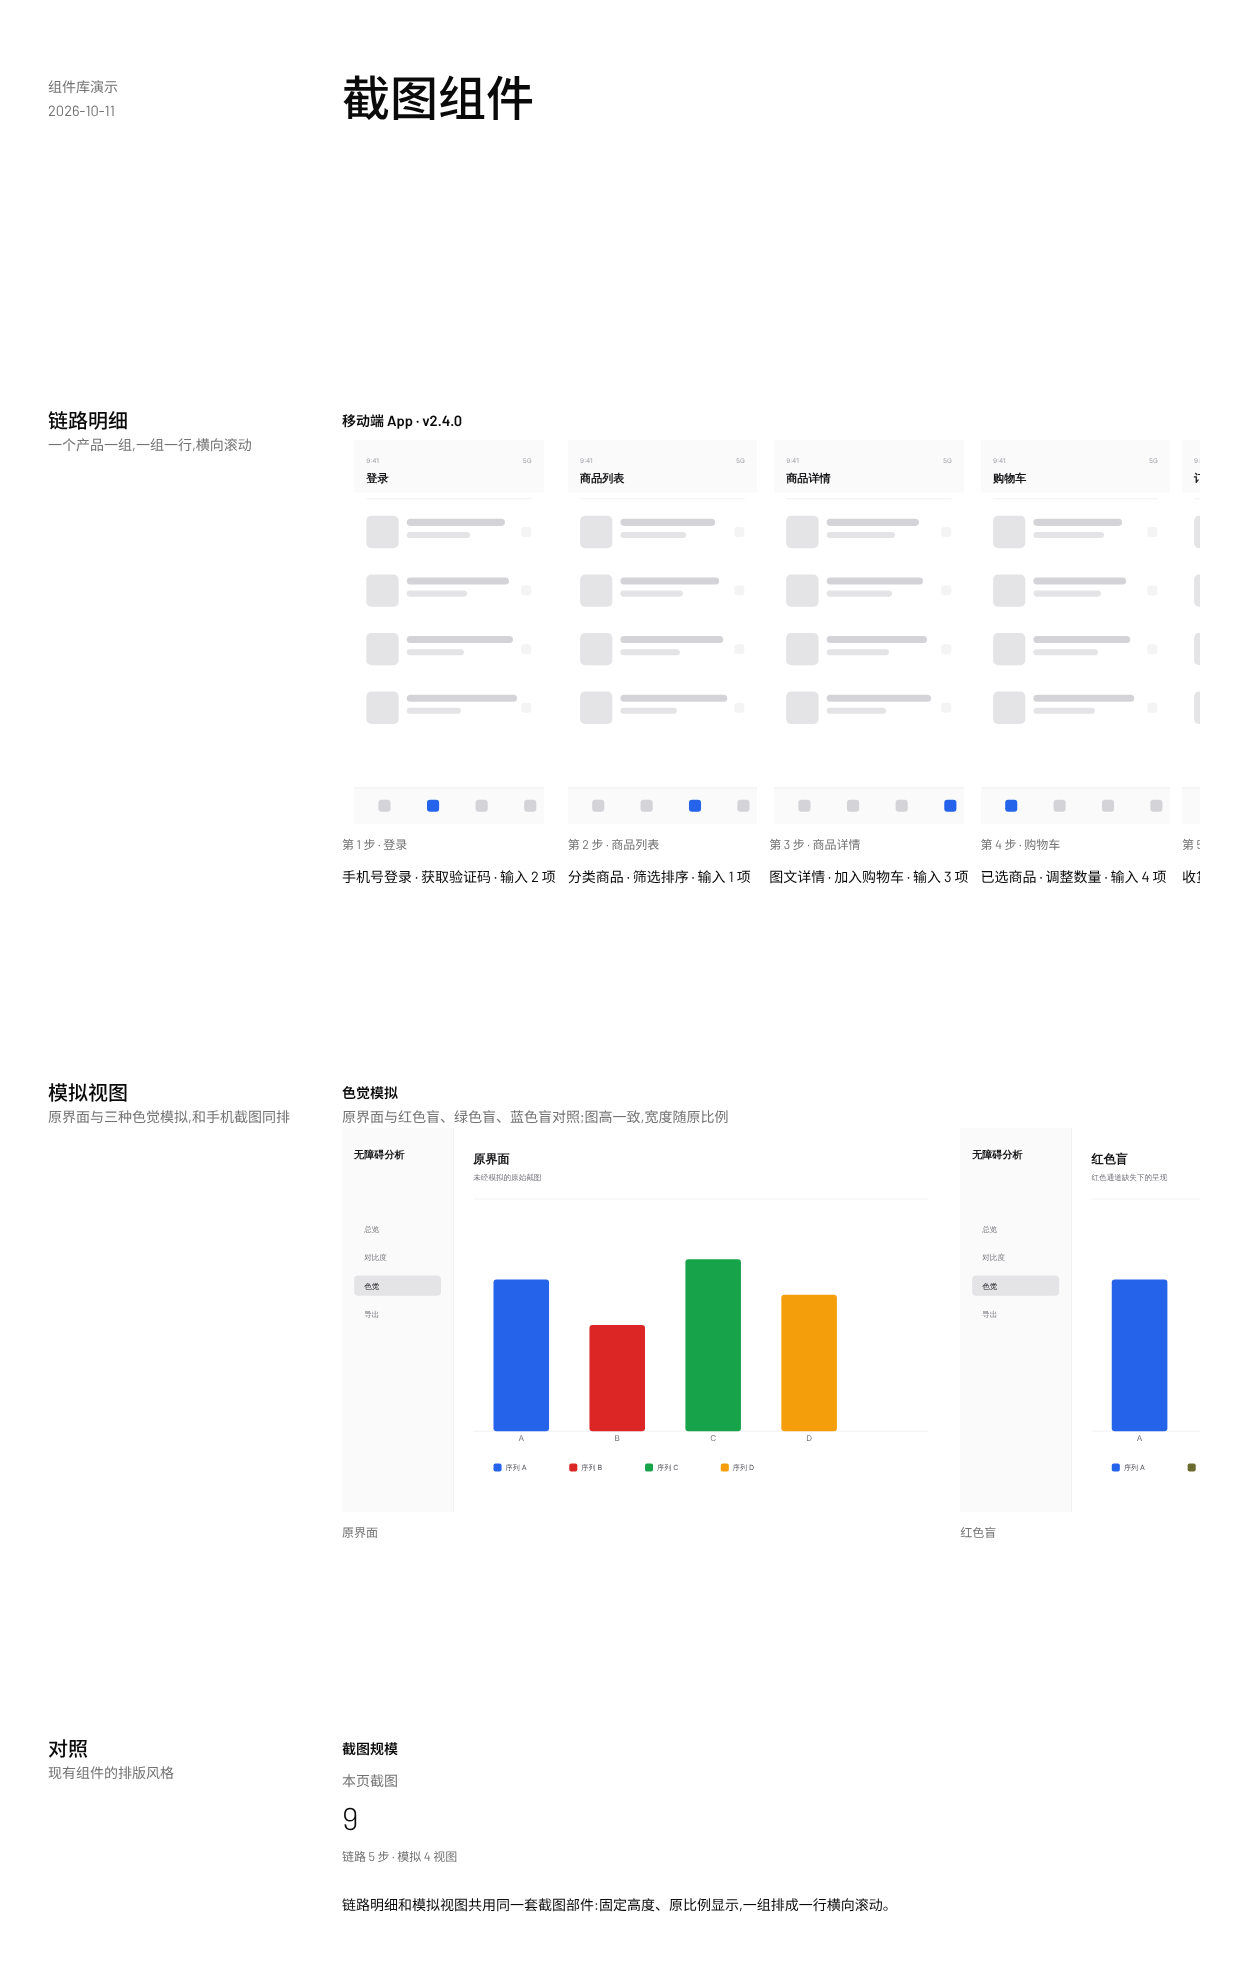
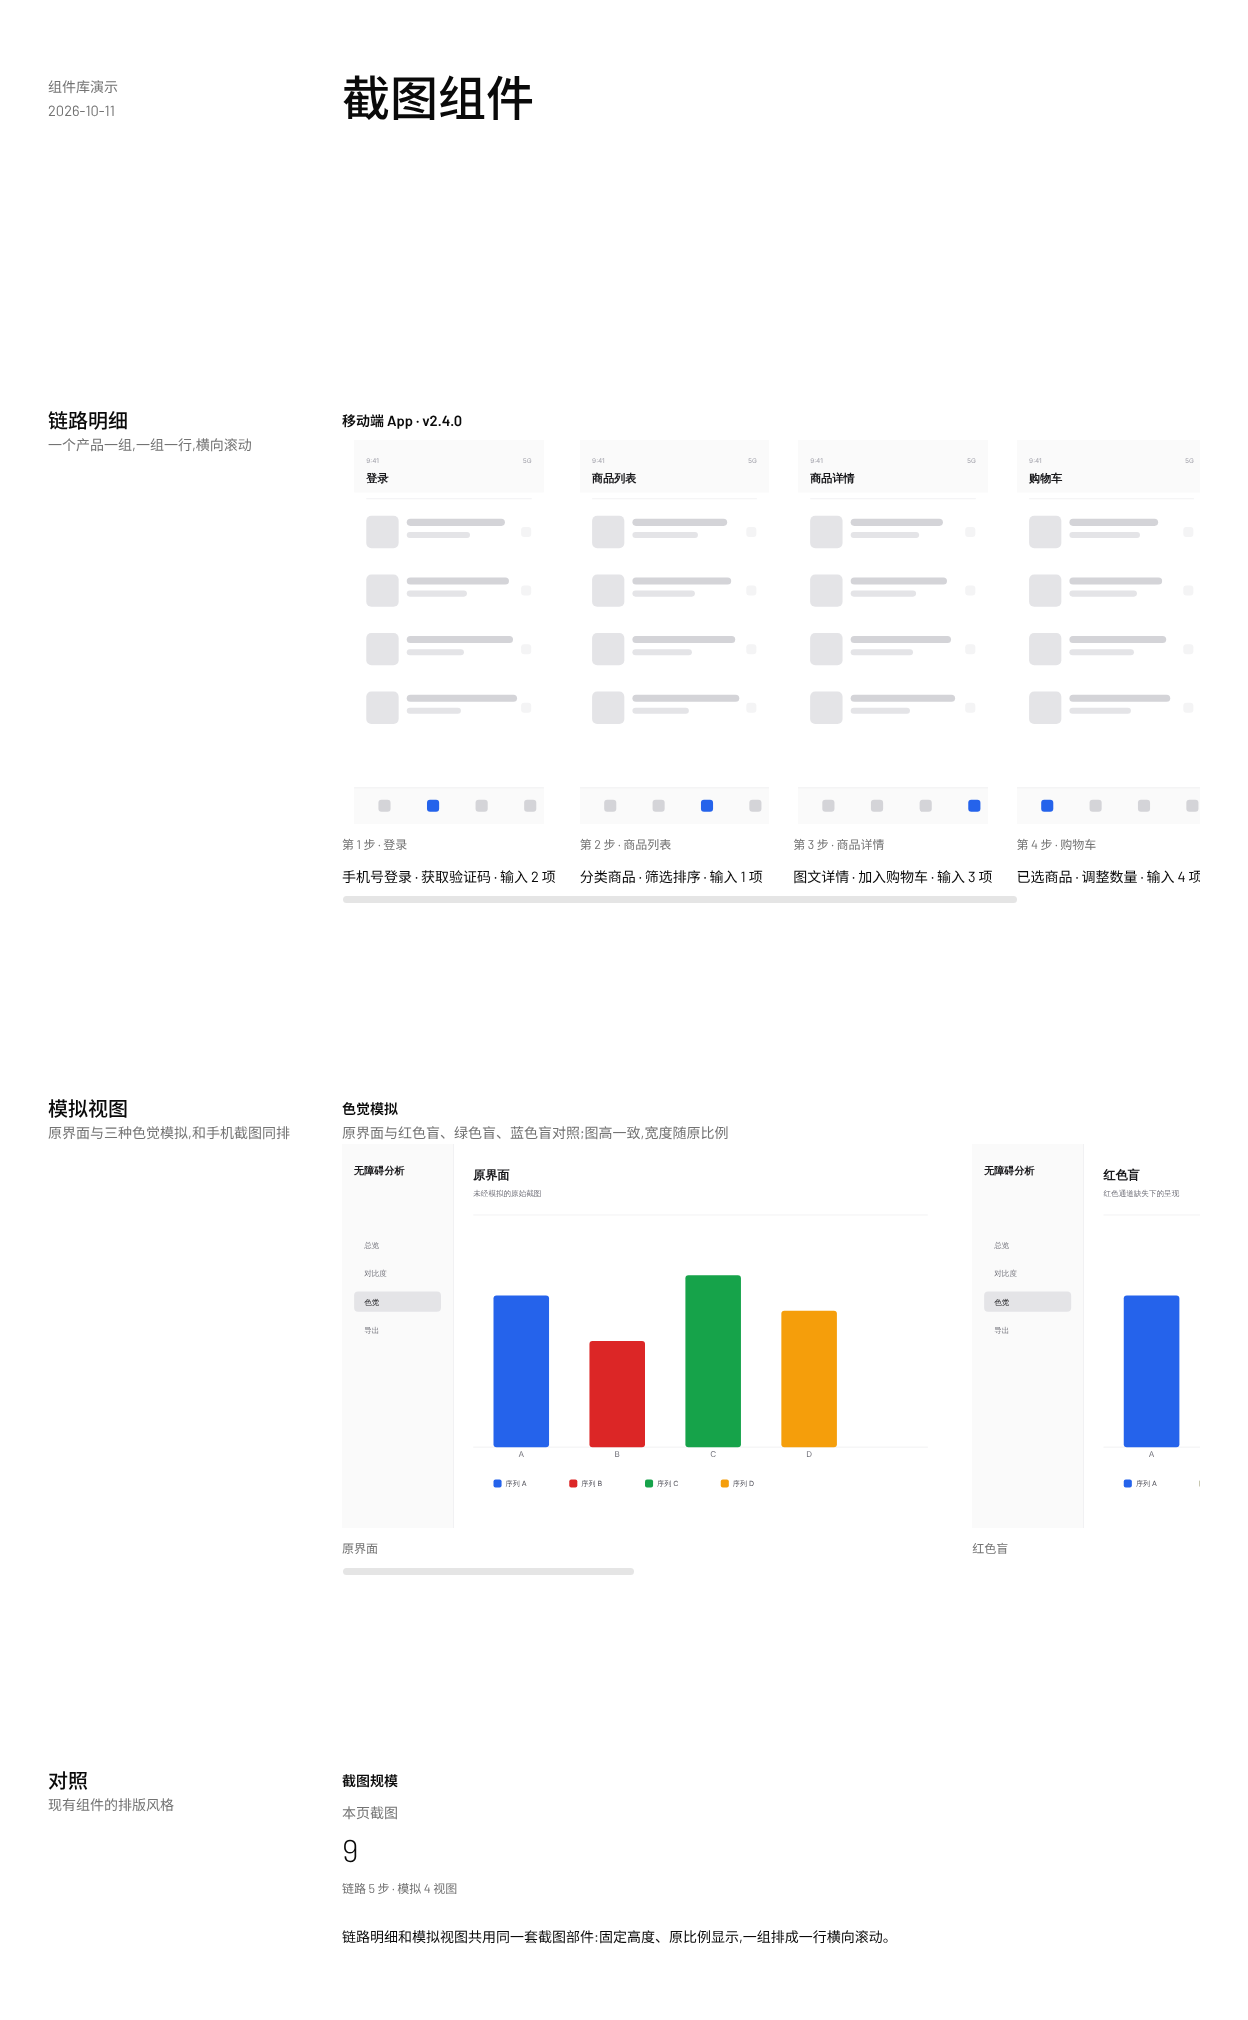
ui-loop: k1 requests use the Maintainer's new wording; round-3 workspace mid-run
Claude-Session: https://claude.ai/code/session_01B6BvnZawy2aUhBeLpK9EKL

diff --git a/experiments/ui-loop/traces/_components/k1/app/src/components/report/index.tsx b/experiments/ui-loop/traces/_components/k1/app/src/components/report/index.tsx
@@ -7,6 +7,7 @@
 import * as React from "react"
 
 import { cn } from "@/lib/utils"
+import { ScrollArea, ScrollBar } from "@/components/ui/scroll-area"
 import { Node, type SpecNode } from "./render"
 
 const SPAN = ["", "col-span-1", "col-span-2", "col-span-3", "col-span-4", "col-span-5", "col-span-6", "col-span-7", "col-span-8", "col-span-9", "col-span-10", "col-span-11", "col-span-12"]
@@ -91,11 +92,17 @@ export function Text({ children, className, span }: Placed & { children: string 
 }
 
 // Screenshots: one screen per Figure, laid out in a FigureStrip that scrolls
-// sideways. Every image is drawn at the same height and keeps its own width, so
-// phone screenshots and wider analysis screenshots line up in one row without
-// being cropped; anything past the right edge is clipped and reached by scrolling.
-export function FigureStrip({ className, ...props }: React.ComponentProps<"div">) {
-  return <div data-slot="figure-strip" className={cn("flex w-full gap-3 overflow-x-auto", className)} {...props} />
+// sideways on a shadcn ScrollArea. Every image is drawn at the same height and
+// keeps its own width, so phone screenshots and wider analysis screenshots line
+// up in one row without being cropped; anything past the right edge is clipped
+// and reached with the scrollbar.
+export function FigureStrip({ className, children, ...props }: React.ComponentProps<typeof ScrollArea>) {
+  return (
+    <ScrollArea data-slot="figure-strip" type="always" className={cn("w-full min-w-0", className)} {...props}>
+      <div className="flex w-max gap-6 pb-4">{children}</div>
+      <ScrollBar orientation="horizontal" />
+    </ScrollArea>
+  )
 }
 
 export function Figure({ className, ...props }: React.ComponentProps<"figure">) {

diff --git a/experiments/ui-loop/traces/_components/k1/app/src/components/ui/scroll-area.tsx b/experiments/ui-loop/traces/_components/k1/app/src/components/ui/scroll-area.tsx
@@ -1,0 +1,57 @@
+"use client"
+
+import * as React from "react"
+import { cn } from "@/lib/utils"
+import { ScrollArea as ScrollAreaPrimitive } from "radix-ui"
+
+function ScrollArea({
+  className,
+  children,
+  ...props
+}: React.ComponentProps<typeof ScrollAreaPrimitive.Root>) {
+  return (
+    <ScrollAreaPrimitive.Root
+      data-slot="scroll-area"
+      className={cn("relative", className)}
+      {...props}
+    >
+      <ScrollAreaPrimitive.Viewport
+        data-slot="scroll-area-viewport"
+        className="size-full rounded-[inherit] transition-[color,box-shadow] outline-none focus-visible:ring-[3px] focus-visible:ring-ring/50 focus-visible:outline-1"
+      >
+        {children}
+      </ScrollAreaPrimitive.Viewport>
+      <ScrollBar />
+      <ScrollAreaPrimitive.Corner />
+    </ScrollAreaPrimitive.Root>
+  )
+}
+
+function ScrollBar({
+  className,
+  orientation = "vertical",
+  ...props
+}: React.ComponentProps<typeof ScrollAreaPrimitive.ScrollAreaScrollbar>) {
+  return (
+    <ScrollAreaPrimitive.ScrollAreaScrollbar
+      data-slot="scroll-area-scrollbar"
+      orientation={orientation}
+      className={cn(
+        "flex touch-none p-px transition-colors select-none",
+        orientation === "vertical" &&
+          "h-full w-2.5 border-l border-l-transparent",
+        orientation === "horizontal" &&
+          "h-2.5 flex-col border-t border-t-transparent",
+        className
+      )}
+      {...props}
+    >
+      <ScrollAreaPrimitive.ScrollAreaThumb
+        data-slot="scroll-area-thumb"
+        className="relative flex-1 rounded-full bg-border"
+      />
+    </ScrollAreaPrimitive.ScrollAreaScrollbar>
+  )
+}
+
+export { ScrollArea, ScrollBar }
